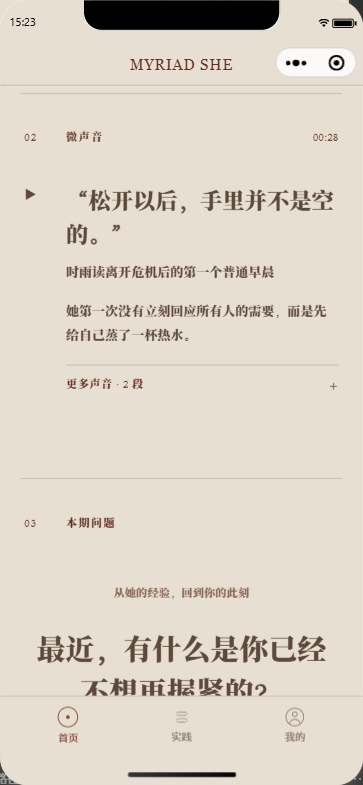
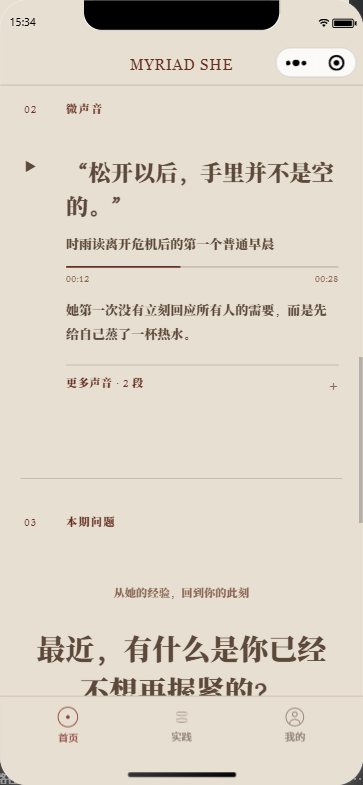
fix(miniprogram): 调整微声音更多入口与进度条位置

diff --git a/docs/development-progress.md b/docs/development-progress.md
@@ -3,9 +3,10 @@
 ## 2026-10-30 首页微声音增加「更多声音」折叠
 
 - 后台微声音原本已支持最多 3 段（「添加声音」），本次只调整小程序首页的展示方式。
-- 首页默认只展示主声音；当本期发布 2–3 段时，主声音下方显示「更多声音 · N 段 +」按钮，点击后展开其余声音，再次点击收起。
+- 首页默认只展示主声音；当本期发布 2–3 段时，在主声音的引言、说明和文字稿之后显示「更多声音 · N 段 +」按钮，点击后展开其余声音，再次点击收起。按钮不打断主声音的阅读，作为微声音栏目的收尾入口。
+- 声音进度条从播放按钮上方移到主声音的播放/引言行之后、文字稿之前；额外声音的进度条也放在各自播放行之后、引言/文字稿之前。这样进度条靠近播放控制，又不会被长文字稿压到页面很下方。
 - 展开后保留每段声音的播放、时长、进度、引言、说明和文字稿；当额外声音正在播放时阻止收起，并提示「正在播放，暂停后可收起」，避免把正在播放的进度隐藏。
-- 使用 3 段注入数据验证：折叠态只显示主声音和「更多声音 · 2 段」按钮，展开态显示 2 条额外声音、按钮变为「收起更多声音」，`aria-expanded` 同步为 `true/false`；截图见 `docs/screenshots/home-audio-more-collapsed.png`、`home-audio-more-expanded.png`。
+- 使用 3 段注入数据验证：折叠态只显示主声音和「更多声音 · 2 段」按钮，展开态显示 2 条额外声音、按钮变为「收起更多声音」，`aria-expanded` 同步为 `true/false`；截图见 `docs/screenshots/home-audio-more-collapsed.png`、`home-audio-more-expanded.png`、`home-audio-progress-layout.png`。
 - 仅修改本地小程序首页，未改接口、后台发布逻辑或其他页面；未发布体验版或正式版。
 
 ## 2026-10-30 隐私政策/用户协议页视觉简化
